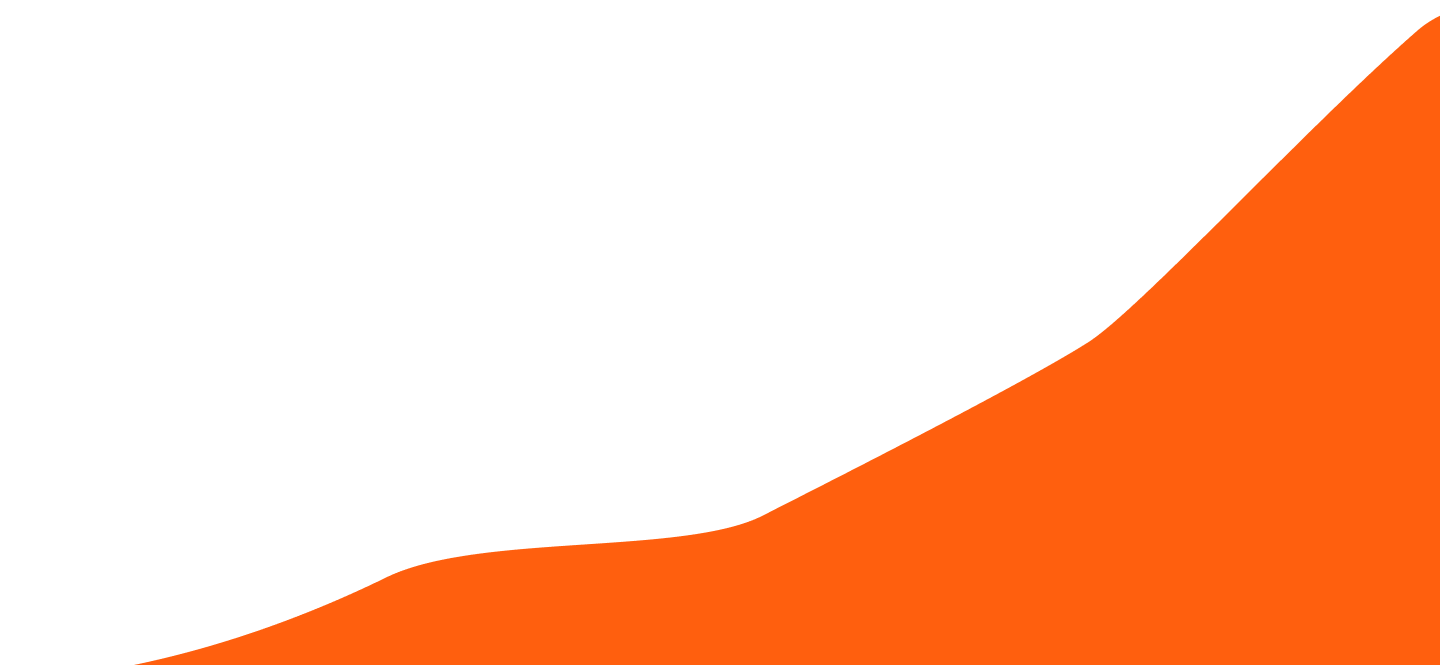
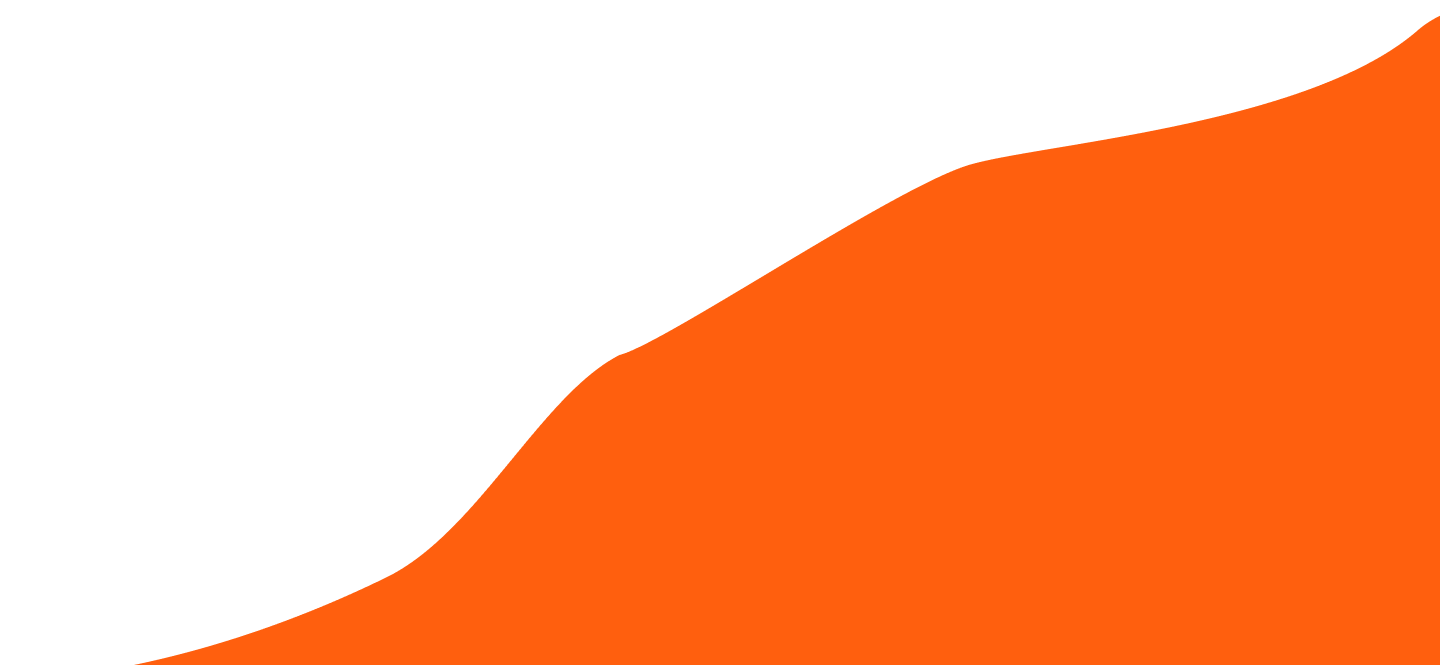
alt: hero section

Changed region(s): [[0.2812, 0.0902, 0.9688, 0.8722]]

diff --git a/index.html b/index.html
@@ -36,9 +36,6 @@
         <img src="/img/icons/menu.svg" alt="Botão de menu">
       </div>
 
-      <a class="logotype" href="#hero">
-        <img src="./img/logo/logotype.svg" alt="Touch Prime Logo">
-      </a>
       <a class="logotype-white" href="#hero">
         <img src="./img/logo/logotype-white.svg" alt="Touch Prime Logo">
       </a>
@@ -48,7 +45,7 @@
         <li class="navigation_item"><a href="" class="products">Produtos</a></li>
         <li class="navigation_item"><a href="" class="testimonials">Avaliações</a></li>
       </ul>
-      <a class="button_filled" href="#address">Contato</a>
+      <a class="button_outline" href="#address">Contato</a>
     </div>
   </header>
 
@@ -57,24 +54,25 @@
       <div class="copy_wrapper">
         <div class="copy_text">
           <h1>O lugar ideal para você</h1>
-          <p>Descubra uma ampla seleção de produtos de alta qualidade, desde produtos de informática e
-            video games até acessórios para smartphones. Nossa equipe está pronta para ajudá-lo a
+          <p>Descubra uma ampla seleção de produtos de informática, periféricos para video games e até acessórios para smartphones. <br> Nossa equipe <span>prime</span> está pronta para ajudá-lo a
             encontrar as melhores soluções e serviços!</p>
           <p>Ampla seleção de produtos de alta qualidade e suporte especializado para encontrar
             as melhores soluções e serviços.</p>
         </div>
         <div class="gallery_hero_mobile" id="gallery_hero_mobile">
-          <img class="gallery_1 gallery_item content" src="/img/images/processador.png" alt="imagem 1">
-          <img class="gallery_2_mobile gallery_item content" src="/img/images/manutencao.png" alt="imagem 2">
-          <img class="gallery_3_mobile gallery_item content" src="/img/images/gamer.png" alt="imagem 3">
+          <img class="gallery_1 gallery_item content" src="/img/images/setup.jpg" alt="imagem 1">
+          <img class="gallery_2_mobile gallery_item content" src="/img/images/control.jpg" alt="imagem 2">
+          <img class="gallery_3_mobile gallery_item content" src="/img/images/headset.jpg" alt="imagem 3">
+
         </div>
+        <a class="button_filled" href="wa.me">Faça um orçamento</a>
         <a class="button_outline" href="wa.me">Faça um orçamento</a>
       </div>
 
       <div class="gallery_hero">
-        <img class="gallery_1 gallery_item" src="/img/images/processador-2.png" alt="imagem 1">
-        <img class="gallery_2 gallery_item" src="/img/images/manutencao.png" alt="imagem 2">
-        <img class="gallery_3 gallery_item" src="/img/images/gamer.png" alt="imagem 3">
+        <img class="gallery_1 gallery_item" src="/img/images/ps5.jpg" alt="imagem 1">
+        <img class="gallery_2 gallery_item" src="/img/images/control.jpg" alt="imagem 2">
+        <img class="gallery_3 gallery_item" src="/img/images/headset.jpg" alt="imagem 3">
       </div>
     </div>
   </section>
@@ -194,7 +192,10 @@
 
         <div class="item_author">
           <img src="/img/testimonials/Ellipse 5-2.png" alt="foto do autor">
-          <span>Giulia Senna</span>
+          <div>
+            <span>Giulia Senna</span>
+            <img src="/img/reviews.png" alt="Google Reviews">
+          </div>
         </div>
       </div>
 
@@ -215,8 +216,12 @@
 
         <div class="item_author">
           <img src="/img/testimonials/Ellipse 5.png" alt="foto do autor">
-          <span>Samanta Passos</span>
+          <div>
+            <span>Samanta Passos</span>
+            <img src="/img/reviews.png" alt="Google Reviews">
+          </div>
         </div>
+
       </div>
 
       <div class="testionial_item">
@@ -237,7 +242,10 @@
 
         <div class="item_author">
           <img src="/img/testimonials/Ellipse 5-1.png" alt="foto do autor">
-          <span>Mônica Silva Lopes</span>
+          <div>
+            <span>Mônica Silva Lopes</span>
+            <img src="/img/reviews.png" alt="Google Reviews">
+          </div>
         </div>
       </div>
 
@@ -259,7 +267,10 @@
 
         <div class="item_author">
           <img src="/img/testimonials/Ellipse 5-2.png" alt="foto do autor">
-          <span>Giulia Senna</span>
+          <div>
+            <span>Giulia Senna</span>
+            <img src="/img/reviews.png" alt="Google Reviews">
+          </div>
         </div>
       </div>
 
@@ -280,8 +291,12 @@
 
         <div class="item_author">
           <img src="/img/testimonials/Ellipse 5.png" alt="foto do autor">
-          <span>Samanta Passos</span>
+          <div>
+            <span>Samanta Passos</span>
+            <img src="/img/reviews.png" alt="Google Reviews">
+          </div>
         </div>
+
       </div>
 
       <div class="testionial_item">
@@ -302,7 +317,10 @@
 
         <div class="item_author">
           <img src="/img/testimonials/Ellipse 5-1.png" alt="foto do autor">
-          <span>Mônica Silva Lopes</span>
+          <div>
+            <span>Mônica Silva Lopes</span>
+            <img src="/img/reviews.png" alt="Google Reviews">
+          </div>
         </div>
       </div>
     </div>

diff --git a/css/main.css b/css/main.css
@@ -55,7 +55,8 @@ header{
 }
 
 .logotype-white {
-  display: none;
+  display: flex;
+  max-width: 200px;
 }
 
 .navigation_list{
@@ -76,6 +77,8 @@ header{
 .navigation_item a {
   padding: 1rem;
   padding-bottom: 0;
+  color: var(--white) !important;
+
 }
 
 .navigation_item img {
@@ -85,6 +88,17 @@ header{
 
 .navigation_selected{
   border-bottom: 3px solid var(--primary-color);
+}
+
+
+header .button_outline{
+  color: var(--white);
+  border: 1px solid var(--white);
+}
+
+header .button_outline:hover {
+  color: var(--white);
+  border: 1px solid var(--primary-color);
 }
 
 /*******************************Breaking Points*******************************/
@@ -105,9 +119,8 @@ header{
     grid-template-columns: repeat(3, 1fr);
   }
 
-  .logotype-white {
-    display: flex;
-    max-width: 200px;
+  header .button_outline{
+    display: none;
   }
 
   .logotype{
@@ -141,20 +154,25 @@ header{
 /*****************************************HERO*****************************************/
 
 .hero_wrapper{
-  background-image: url('../img/BLOBS.png');
+  background-image: url('../img/bg.jpg');
   background-size: cover;
   background-position: center;
   background-repeat: no-repeat;
-  margin-top: 10rem;
-  padding-block: 22rem;
+  height: 800px;
+  position: relative;
 }
 
 .hero_content{
+  position: absolute;
   display: flex;
-  width: 100%;
+  left: 0;
+  right: 0;
+  height: 800px;
+  max-width: 100vw;
   gap: 4rem;
   justify-content: center;
-  gap: 9rem;
+  align-items: center;
+  background: linear-gradient(#ffffff17,  #ff5e0e2c,#ff5e0e57, #ff5e0e);
 }
 
 .copy_wrapper{
@@ -171,6 +189,8 @@ header{
 
 .copy_text h1 {
   font-size: var(--text-46);
+  color:var(--white);
+  text-align: left;
 }
 
 .copy_text p{
@@ -178,6 +198,11 @@ header{
   max-width: 550px;
   width: 100%;
   line-height: 2.4rem;
+  color: var(--white)
+}
+
+.copy_text p span {
+  font-weight: var(--bold);
 }
 
 .copy_text p:nth-of-type(2){
@@ -186,8 +211,8 @@ header{
 
 .gallery_hero{
   display: grid;
-  grid-template-columns: repeat(2, 1fr);
-  gap: 2rem;
+  grid-template-columns: repeat(2, max-content);
+  gap: 4rem;
 }
 
 .gallery_hero_mobile{
@@ -197,23 +222,26 @@ header{
 .gallery_item{
   border-top-left-radius: 30px;
   border-bottom-right-radius: 30px;
-  max-width: 250px;
+  max-width: 300px;
   box-shadow: var(--dp2-shadow);
   width: 100%;
-  height: 100%;
   justify-self: center;
 }
 
 .gallery_1{
   grid-row: 1/3;
+  max-height: 450px;
 }
 
 .gallery_2{
   grid-column: 2/3;
+  grid-row: 1/2;
 }
 
 .gallery_3{
   grid-column: 2/3;
+  grid-row: 1/2;
+  margin-top: 248px;
 }
 
 .item_wrapper
@@ -222,11 +250,20 @@ header{
   max-width: 200px;
 }
 
+.hero_content .button_filled{
+max-width: max-content;
+}
+
+.hero_content .button_outline{
+  display: none;
+}
+
+
+
 /*******************************Breaking Points*******************************/
 
 @media(max-width: 1100px){
   .hero_wrapper{
-    background-image: unset;
     padding-block: 4.8rem;
   }
 
@@ -258,8 +295,13 @@ header{
 }
 
 @media(max-width: 769px){
-  .hero_wrapper{
-    background-image: unset;
+
+  .hero_content .button_outline{
+    display: flex;
+  }
+
+  .hero_content .button_filled{
+    display: none;
   }
 
   .gallery_hero_mobile{
@@ -321,7 +363,7 @@ header{
 /*****************************************SERVICES*****************************************/
 
 .services_wrapper{
-  padding-block: 10rem;
+  padding-block: 7rem;
   background-color: var(--primary-color);
   display: flex;
   flex-direction: column;
@@ -646,7 +688,7 @@ header{
   border-radius: 5px;
   background-color: var(--white);
   max-width: 440px;
-  min-width: 270px;
+  min-width: 350px;
   width: 100%;
   padding: 2.4rem;
   box-shadow: var(--dp3-shadow);
@@ -654,7 +696,7 @@ header{
 }
 
 .item_rating{
-  margin-bottom: 3.6rem;
+  margin-bottom: 1.2rem;
 }
 
 .item_content{
@@ -674,12 +716,23 @@ header{
   align-items: center;
 }
 
-.item_author span {
+.item_author div {
+  display: flex;
+  flex-direction: column;
+  align-items: flex-start;
+  gap: .5rem;
+}
+
+.item_author div span {
   color: var(--black);
   font-weight: var(--semibold);
   font-size: var(--text-12);
 
 } 
+
+.item_author div img{
+  max-width: 50px;
+}
 
 .slide_buttons{
   display: flex;
@@ -711,11 +764,13 @@ header{
 @media(max-width: 769px){
   .testionial_item{
     max-width: 250px;
+    min-width: 280px;
   }
 
   .slide_buttons{
     display: none;
   }
+  
   .testimonials_wrapper{
     padding-bottom: 4.2rem;
   }
